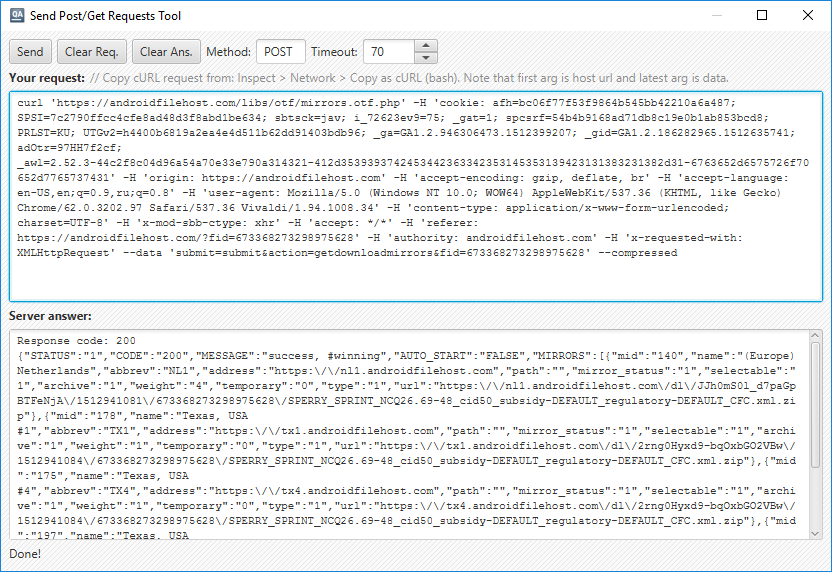
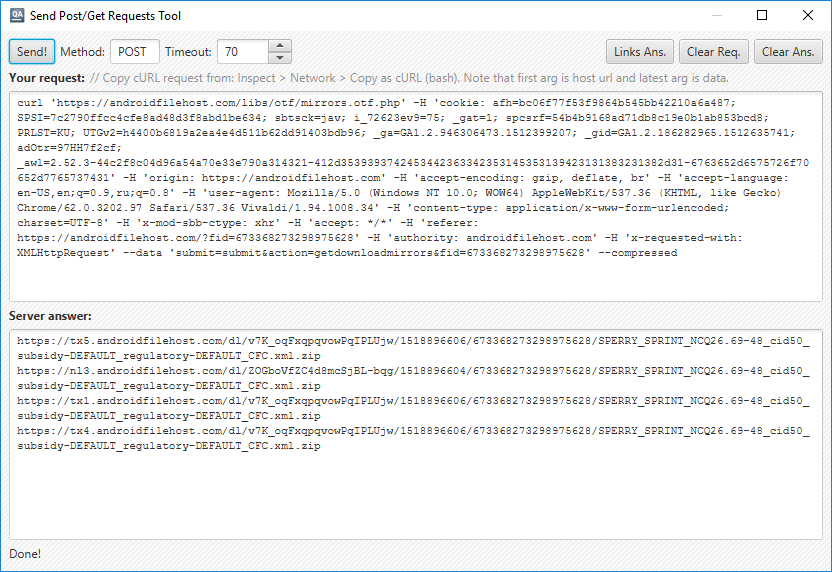
Update ReadMe.md, update screenshot

diff --git a/ReadMe.md b/ReadMe.md
@@ -27,7 +27,7 @@ You can download ready-to-run JavaFX-bundle packed with [7z file archiver](http:
 
 For example, MS Windows:
 
-* Install the latest [JDK](http://www.oracle.com/technetwork/java/javase/downloads/index.html);
+* Install the latest [JDK](http://www.oracle.com/technetwork/java/javase/downloads/index.html), tested with JDK 8;
 
 * Clone repository into deploy directory;
 
